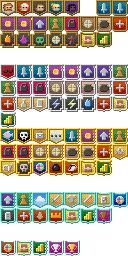
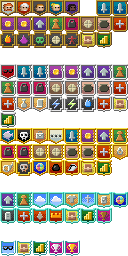
Port the three ascent badges with validateHappyEnd gates
badges.mwl gains happy_end / happy_end_remains / pacifist_ascent rows
with Java's own descriptions and image cells 99/101/120 (pasted from
v3.3.8's badges.png; the sheet's remaining pre-3.3.8 cells untouched).
showVictoryPanel awards them with Badges.java:1138 gates: always,
with a remains item, and with an active never-lowered challenge.
Remains stays unfillable (no remains family modeled). Pins in
test:items; PORT_COVERAGE ascent row + ROADMAP updated in the same
commit. Verified: tsc clean, test:items green, build clean.

Changed region(s): [[0.625, 0.75, 0.75, 0.8125], [0.375, 0.75, 0.5, 0.8125], [0.0, 0.9375, 0.125, 1.0]]

diff --git a/src/scenes/dungeon/panelsSingleUse.ts b/src/scenes/dungeon/panelsSingleUse.ts
@@ -57,6 +57,13 @@ import { BUFF_DURATION, absorbShield, addBuff, setAnnounceBuff, setAttachBacklas
 import { BOSSES } from '../../monsters';
 import { APPEARANCE_TABLES, AUGMENT_OPTIONS, BLACKSMITH_QUEST, IMP_QUEST, SAD_GHOST_QUEST, SPD_LEVEL_CURVE, SUBCLASS_OPTIONS, SUBCLASS_TRACK, WANDMAKER_QUEST } from './shared';
 
+/**
+ * Java's `RemainsItem` subclasses (`items/remains/`, tag `v3.3.8`) whose presence in
+ * `belongings` earns `HAPPY_END_REMAINS` at the surface win. None is modeled in this port's
+ * item vocabulary yet, so the surface-win gate below is live but unfillable until they are.
+ */
+const PORTED_REMAINS_IDS: readonly string[] = ['bowFragment', 'brokenHilt', 'brokenStaff', 'cloakScrap', 'sealShard', 'tornPage'];
+
 /** DungeonScene methods, moved verbatim from `dungeonScene.ts` (group `panelsSingleUse`). Each takes the scene as 	his`;
  * `dungeonScene.ts` merges them back onto the class prototype. */
 export const panelsSingleUseMethods = {
@@ -578,6 +585,20 @@ export const panelsSingleUseMethods = {
 
 	/** LastLevel's Amulet pickup ends the run with a visible, restartable result screen. */
 	showVictoryPanel(this: DungeonScene): void {
+		//`SewerLevel.activateTransition`'s `SURFACE` branch calls `Badges.validateHappyEnd()`
+		//before `Dungeon.win` - this panel is that branch's port-side counterpart (its only
+		//caller is `beginAscendOneFloor`'s depth-1 win), so the three ascent badges are awarded
+		//here with Java's own gates (`Badges.java:1138`, tag `v3.3.8`): `HAPPY_END` unconditionally;
+		//`HAPPY_END_REMAINS` while a `RemainsItem` is carried - none of Java's six remains ids
+		//(`BowFragment`/`BrokenHilt`/`BrokenStaff`/`CloakScrap`/`SealShard`/`TornPage`) exists in
+		//this port's item model yet, so the gate is live code that cannot fill until they do;
+		//`PACIFIST_ASCENT` while the challenge is active and no boosted kill ever lowered its
+		//stacks (`AscensionChallenge.qualifiedForPacifist`). Ordering vs `recordRun` (called just
+		//before this panel) is immaterial here: the port's run record carries depth/level/gold
+		//only and reads no badge state, unlike Java's badge-scored ranking submit.
+		this.awardBadge('happy_end');
+		if (PORTED_REMAINS_IDS.some((id) => this.bag.find(id) !== undefined)) this.awardBadge('happy_end_remains');
+		if (this.ascensionChallengeActive && !this.ascensionStacksLowered) this.awardBadge('pacifist_ascent');
 		showVictoryPanelUi({ panel: this.victoryPanel, level: this.progression.level, depth: this.depth, position: () => this.positionInterface(Game.current.width, Game.current.height) });
 	},
 

diff --git a/PORT_COVERAGE.md b/PORT_COVERAGE.md
@@ -1303,7 +1303,7 @@ the tint assignment compiling) owed per ROADMAP.md section 10. |
 
 | `Challenges.java` selection plus `AscensionChallenge.statModifier` per-mob table | `src/challenges.ts`, title Settings > Challenges, `ASCENSION_MOD` | Challenge ids/names/descriptions are selectable and persisted between runs. **Audited every challenge for whether its toggle actually does anything, having just found `champion_enemies` didn't**: `stronger_bosses` is real and **boss-only** - 18 call sites covering boss HP (Goo 100->120, Tengu 200->250, DM300 300->400, King 300->450, Pylon 50->80), DM300's cooldown and gas multiplier, King's phase-2 thresholds, Goo's heal increment, Tengu's ability deck, and `CavesBossLevel`'s trap chance plus final-pylon count. **This row used to claim the challenge "activates the Java multiplier table (already live)" - that was a bug written down as a feature.** The two are unrelated Java mechanisms, and the wiring pointed the *AscensionChallenge* per-mob table at this challenge, so selecting Stronger Bosses multiplied every ordinary mob's accuracy **and** damage by up to x10 (a rat). Found and fixed 2026-09-12; see the `AscensionChallenge` row below. `champion_enemies` now gates the champion roll (fixed this pass, see the `ChampionEnemy` row); `darkness` is now ported too - real `Level.viewDistance` drops from `8` to `2`, and since this port already uses one shared `VIEW_RADIUS` constant for both the hero's own FOV and every monster's `seesHero`/AI sight radius (the same shape real Java's own light-casting array backs both alike with), a single new `viewRadius()` helper reading `isChallengeEnabled('darkness')` covers every call site at once. `no_armor` is now ported too: real `Armor.DRMin()`/`DRMax()` drop to a flat `0` and `1+tier+lvl(+augment, not modeled here)` respectively under the challenge, instead of the normal `lvl`/`tier*(2+lvl)` scaling - `syncHeroFromStats`'s existing `hero.armor = [min, max]` assignment now branches on `isChallengeEnabled('no_armor')`; the Barkskin-talent addend stays unconditional on both branches, since it's this port's own additive layer on top of either formula, not part of Java's `DRMin`/`DRMax` bodies. `no_healing` is now ported too: fetched `PotionOfHealing.java` to confirm real `heal()`'s challenge branch grants no `Healing` buff at all - instead `pharmacophobiaProc()` sets a fresh `Poison` at the hero's own `4 + lvl/2` level. This port's `poison` buff has no separate stack-level dimension (a pre-existing simplification - every source just sets the shared flat duration, dealing a fixed 1-2 dmg/turn regardless), so `4 + floor(lvl/2)` is applied as that duration instead, the closest faithful substitute within the existing model. `cure()`'s own poison/burning/weakness/vulnerable/cripple clear still runs first either way, matching Java's `apply()` calling both unconditionally; the `restored_willpower`/`restored_agility`/`restored_nature` talent triggers correctly do not fire under the challenge, since real Java gates them on the `Healing` buff itself existing. New `port.log.pharmacophobia` EN/FR keys (no real Java message string was available in this checkout to reuse, unlike most other new lines here). `no_herbalism` is now ported too: real `Plant.Seed.onThrow()` falls through to a plain thrown-item drop under the challenge instead of ever planting - this port has no throw-to-cell targeting at all, so `plantSeed()` simply refuses the action without consuming the seed, the closest faithful equivalent. **Found and fixed three unrelated hardcoded-English strings in the same function while adding this gate** - `plantSeed()`'s three existing log lines (`This cell cannot grow a plant.` / `The seed has no known plant effect.` / the plant-success line) had never gone through `t()` at all, a real, pre-existing i18n gap this project's own audit convention exists to catch; all three plus the new `no_herbalism` line are now real `port.log.*` keys with EN+FR entries, reconfirmed by rerunning the full `port.*` literal-key audit (0 missing in either locale, 224 keys now in use). `swarm_intelligence` is now ported too: fetched `Mob.java`'s `Sleeping`/`Wandering` AI states to confirm the real hook - the instant any enemy mob notices the hero, it beckons every other non-paralyzed, not-yet-`HUNTING` enemy mob within 8 tiles of *itself* toward the hero too, rather than each mob only ever noticing independently. Wired into the existing wake check (right where `monster.sleeping` flips `false`); this port has no `HUNTING`/`WANDERING` state machine, so "not yet `HUNTING`" is approximated as "not already awake-and-`seesHero`," and the beckon itself reuses the exact `sleeping=false`/`seesHero=true` stand-in `ScrollOfRage`'s own beckon already established. **`no_food` is now ported**: real `Food.satisfy()` subtracts `HUNGRY` energy (300 for ordinary food, 150 for MysteryMeat), dividing that energy by three under `NO_FOOD`; `eatFood()` reproduces this in the MWG hunger model. **Correction 2026-09-19:** the "flat meat-heal simplification" this sentence used to preserve is removed - no Java food heals, so `MysteryMeat.effect()`'s debuff roll runs instead. **`no_scrolls` is now ported**: Java's `Dungeon.souNeeded()`/`Level.create()` allocation is reproduced as three guaranteed Upgrade Scrolls per five-floor chapter, with every second allocation suppressed while its run counter still advances. The port's generic floor allocator had no pre-existing guaranteed-scroll queue, so this is integrated as an equivalent post-generated-item placement with the same chapter budget and random floor selection. |
 | `AscensionChallenge.statModifier` per-class table (`Rat` 10 down to `Scorpio` 1.1) | `ASCENSION_MOD` in `src/simulation/combat.ts`, `ascensionOn()` gate | **Simplified.** Java applies this table only while the hero holds the `AscensionChallenge` buff, i.e. during the post-victory ascent (`AscensionChallenge.java`: `if (Dungeon.hero == null || Dungeon.hero.buff(AscensionChallenge.class) == null) return 1;`). **2026-09-24: the gate is now wired up for real** - `DungeonScene.ascensionChallengeActive` is the buff stand-in, set by `tryAscendStairs`' depth-26 ascent confirmation (`actorTurnsHazards.ts`, mirrors `HallsBossLevel.activateTransition`'s `WndOptions` yes/no) and re-synced into this module's `ascensionActive` at the top of every `enterLevel()` (`setAscensionActive`, since `combat.ts` has no scene reference). Before that it was gated on the *Stronger Bosses* challenge instead, which made every ordinary mob up to x10 stronger - see the challenges row above; before that (2026-09-12) it was simply always 1 in-game, with nothing ever setting the flag. The table itself was also unreliable at one point: `skeleton`/`thief` were 6 instead of 5, `dm100` 5 instead of 4.5, and fourteen mobs Java names (`bat`, `brute`, `shaman`, `spinner`, `dm200`, `ghoul`, `elemental`, `warlock`, `monk`, `golem`, `ripperDemon`, `succubus`, `eye`, `scorpio`) were missing; both are fixed. Java's 25 classes are flattened onto this port's 40 ids, since Java resolves by `isAssignableFrom` (a subclass inherits its parent) while this port models subclasses partly as MWL `BASE_KIND_ALIASES` variants and partly as first-class `MonsterId`s; a `verifyCombat` check pins the flattened table and asserts each alias-table variant matches its base kind's value. Accuracy, attacker damage, and defender `drRoll()` use Java's multiplier and rounding order. The `Ratmogrify.TransmogRat` and `AscensionBuffBlocker` exemptions remain unmodeled because their source markers are absent. See the new "Post-victory ascent" row below for the climb itself (stairs, win condition, what of the surrounding mechanic is and isn't ported).
-| Post-victory ascent: amulet pickup, the depth-26 "begin your ascent?" choice, climbing depths 25->1 carrying the Amulet, and the real win at the surface | `pickupAmulet` (`npcShopBlacksmith.ts`), `tryAscendStairs`/`beginAscendOneFloor` (`actorTurnsHazards.ts`), `entranceCell`/`ascensionChallengeActive` (`dungeonScene.ts`), `interfloorTeleportAllowed`'s amulet check (already existed in `returnToPreviousFloor`, `actorTurnsHazards.ts`) | **2026-09-24, replacing "this port does not model the ascent at all":** picking up the Amulet (`Amulet.doPickUp`/`showAmuletScene`) no longer ends the run outright - it awards the real pickup-time "Escaped with the Amulet" trophy (`Badges.validateVictory()` fires at pickup in real Java too, not at the final exit) and lets the hero keep playing, matching Java's `showAmuletScene`'s "I'm not done yet" branch (this port has no separate cutscene scene to host the "Let's call it a day" instant-win choice `showAmuletScene` also offers, so it always takes the "stay" branch and relies on the real climb instead - **Not ported**: that shortcut-win button). Walking back onto the tile the hero arrived on each floor (`entranceCell`, Java's `Level.entrance()`/`LevelTransition.Type.REGULAR_ENTRANCE`) while carrying the Amulet now works as the up-stairs: on depth 26 it shows Java's real `ascent_title`/`ascent_desc`/`ascent_yes`/`ascent_no` confirmation text (`Amulet.java`'s generated strings) before granting the `AscensionChallenge` stand-in; every floor after that it is a plain one-floor climb; reaching depth 1's entrance triggers the real win (`SewerLevel.activateTransition`'s `SURFACE` branch: `recordRun`/`showVictoryPanel`/`gameOver`, this port's equivalent of `Statistics.ascended`/`Dungeon.win`). `Dungeon.interfloorTeleportAllowed()`'s amulet check already existed (`returnToPreviousFloor`'s Fadeleaf/Beacon-of-Returning path already refused a carried Amulet) and needed no change. **2026-09-24, second pass - the stack escalation itself is now real:** `AscensionChallenge.onLevelSwitch`/`processEnemyKill`/`act()` (tag `v3.3.8`) are ported as `DungeonScene.ascensionStacks`/`ascensionDamageInc`/`ascensionStacksLowered`: +2 stacks per non-boss floor climbed (`beginAscendOneFloor`, `actorTurnsHazards.ts`), -1 (-0.5 for Ghoul/RipperDemon) per `ASCENSION_MOD`-boosted kill while the challenge is active, floored at 0 (`deathSaveRefresh.ts`'s per-kill hook, right beside the existing XP/loot bookkeeping), and direct unblockable-by-shield-type hero damage once stacks reach 8 - `damageInc += (stacks-4)/4`, spending whole points, suppressed on boss floors, wired into the same per-actor-turn `applyBuffDamage` pass as Poison/Ooze/Bleeding (`turnLoopAiming.ts`), with a fatal tick reusing the ordinary hero-death pipeline (Java's `Dungeon.fail(Amulet.class)` has no separate fail path here). The full `saySwitch()` narrative ladder is now real too - `beginAscendOneFloor`'s single `say()` line picks the highest threshold the stack count clears (damage>=8, slow>=6, haste>=4, beckon>=2), falling back to depth-1's "almost there" or the ordinary descend line, using the real generated strings for all four (Java's separate "weaken_info"/"weaken_info_no_kills" hint lines are folded into that same one line rather than added as a second chat line). **Still not ported**, left as an honest gap: `Statistics.highestAscent` tracking (no Rankings/high-score screen exists to show it - confirmed not worth building a whole screen just to host one field, since nothing else in this port reads it either), the beckon/haste/hero-speed-cap *mechanical* effects themselves (the flavor lines above fire, but distant enemies are not actually pulled closer, idle enemies do not actually move at 2x, and hero speed is not actually halved - these need a hook into continuous mob-AI pathing and hero action-cost scaling that this port's turn-based, non-actor-clock movement/AI code has no existing seam for; a real attempt risked destabilizing unrelated movement code for a chance-based, cosmetic-adjacent effect under this session's time budget, so it is deferred rather than rushed), the `Badge.HAPPY_END`/`HAPPY_END_REMAINS`/`PACIFIST_ASCENT` badges (no matching rows in this port's `badges.mwl` - `ascensionStacksLowered` is now tracked and ready for `PACIFIST_ASCENT` whenever that badge row is added), `DemonSpawner`'s reduced-cooldown-past-floor-20 carve-out during the climb (no observable gameplay effect this port models at all - it only shortens one spawner's own cooldown), and the `Ratmogrify`/`AscensionBuffBlocker` exemptions already noted above. **Bug found and fixed 2026-09-25, connected-whole live run:** every prior verification of this row (including the 2026-09-24 browser pass above) exercised the climb by hand-injecting the Amulet straight into the bag (`bag.add({id:'amulet',...})`), which masked a real defect - `pickupAmulet` (`npcShopBlacksmith.ts`) never actually called `bag.add` for the Amulet itself (`incomingPickupStack`'s `groundPickup.ts` classification of `kind === 'amulet'` as "no bag stack" predates this port's ascent even existing, from when picking it up instantly ended the run), so `this.bag.find('amulet')` - the exact gate `tryAscendStairs`/`returnToPreviousFloor`/the quickslot's `hasAmulet` all read - was **always false for a real ground pickup**, meaning the ascent could never trigger for an actual player at all despite every earlier state-level test passing. `pickupAmulet` now calls `this.bag.add({id:'amulet',quantity:1,identified:true})`. Found via a scripted live run that, for the first time, walked the *connected* chain rather than its pieces: teleport to depth 25, move >=2 cells from the entrance to trigger `checkHallsBossSeal`'s real Yog spawn (Yog is dormant/uninvolved until then, `yogPhase = 0`), wake and `kill()` the real 400-HP Yog through the shared death path (badge, minion cleanup, `applyYogDeathUnseal` all fired correctly), advance to depth 26 where `checkHallsBossSeal`'s vault `populate()` placed the real Amulet ground item at `(8,12)`, pick it up through the actual `pickupGroundItemAt` path (not a hand-injection), then run the already-verified confirm/climb/win sequence - all in a real browser (`playwright-core` against the sandbox's Chromium, same method as before). **Re-verified after the fix, all 6 classes** (Warrior/Mage/Rogue/Huntress/Duelist/Cleric, one fresh page each): Yog found and killed, vault entered, Amulet genuinely in the bag (`hasAmulet: true`, not injected), ascent confirmed, climb 25->1, real win screen - zero page/console errors on any of the 6. **Verification: `npx tsc --noEmit` and `npm run build` clean.**
+| Post-victory ascent: amulet pickup, the depth-26 "begin your ascent?" choice, climbing depths 25->1 carrying the Amulet, and the real win at the surface | `pickupAmulet` (`npcShopBlacksmith.ts`), `tryAscendStairs`/`beginAscendOneFloor` (`actorTurnsHazards.ts`), `entranceCell`/`ascensionChallengeActive` (`dungeonScene.ts`), `interfloorTeleportAllowed`'s amulet check (already existed in `returnToPreviousFloor`, `actorTurnsHazards.ts`) | **2026-09-24, replacing "this port does not model the ascent at all":** picking up the Amulet (`Amulet.doPickUp`/`showAmuletScene`) no longer ends the run outright - it awards the real pickup-time "Escaped with the Amulet" trophy (`Badges.validateVictory()` fires at pickup in real Java too, not at the final exit) and lets the hero keep playing, matching Java's `showAmuletScene`'s "I'm not done yet" branch (this port has no separate cutscene scene to host the "Let's call it a day" instant-win choice `showAmuletScene` also offers, so it always takes the "stay" branch and relies on the real climb instead - **Not ported**: that shortcut-win button). Walking back onto the tile the hero arrived on each floor (`entranceCell`, Java's `Level.entrance()`/`LevelTransition.Type.REGULAR_ENTRANCE`) while carrying the Amulet now works as the up-stairs: on depth 26 it shows Java's real `ascent_title`/`ascent_desc`/`ascent_yes`/`ascent_no` confirmation text (`Amulet.java`'s generated strings) before granting the `AscensionChallenge` stand-in; every floor after that it is a plain one-floor climb; reaching depth 1's entrance triggers the real win (`SewerLevel.activateTransition`'s `SURFACE` branch: `recordRun`/`showVictoryPanel`/`gameOver`, this port's equivalent of `Statistics.ascended`/`Dungeon.win`). `Dungeon.interfloorTeleportAllowed()`'s amulet check already existed (`returnToPreviousFloor`'s Fadeleaf/Beacon-of-Returning path already refused a carried Amulet) and needed no change. **2026-09-24, second pass - the stack escalation itself is now real:** `AscensionChallenge.onLevelSwitch`/`processEnemyKill`/`act()` (tag `v3.3.8`) are ported as `DungeonScene.ascensionStacks`/`ascensionDamageInc`/`ascensionStacksLowered`: +2 stacks per non-boss floor climbed (`beginAscendOneFloor`, `actorTurnsHazards.ts`), -1 (-0.5 for Ghoul/RipperDemon) per `ASCENSION_MOD`-boosted kill while the challenge is active, floored at 0 (`deathSaveRefresh.ts`'s per-kill hook, right beside the existing XP/loot bookkeeping), and direct unblockable-by-shield-type hero damage once stacks reach 8 - `damageInc += (stacks-4)/4`, spending whole points, suppressed on boss floors, wired into the same per-actor-turn `applyBuffDamage` pass as Poison/Ooze/Bleeding (`turnLoopAiming.ts`), with a fatal tick reusing the ordinary hero-death pipeline (Java's `Dungeon.fail(Amulet.class)` has no separate fail path here). The full `saySwitch()` narrative ladder is now real too - `beginAscendOneFloor`'s single `say()` line picks the highest threshold the stack count clears (damage>=8, slow>=6, haste>=4, beckon>=2), falling back to depth-1's "almost there" or the ordinary descend line, using the real generated strings for all four (Java's separate "weaken_info"/"weaken_info_no_kills" hint lines are folded into that same one line rather than added as a second chat line). **Still not ported**, left as an honest gap: `Statistics.highestAscent` tracking (no Rankings/high-score screen exists to show it - confirmed not worth building a whole screen just to host one field, since nothing else in this port reads it either), the beckon/haste/hero-speed-cap *mechanical* effects themselves (the flavor lines above fire, but distant enemies are not actually pulled closer, idle enemies do not actually move at 2x, and hero speed is not actually halved - these need a hook into continuous mob-AI pathing and hero action-cost scaling that this port's turn-based, non-actor-clock movement/AI code has no existing seam for; a real attempt risked destabilizing unrelated movement code for a chance-based, cosmetic-adjacent effect under this session's time budget, so it is deferred rather than rushed), the `Badge.HAPPY_END`/`HAPPY_END_REMAINS`/`PACIFIST_ASCENT` badges are **Ported 2026-09-25 (T107):** `badges.mwl` carries `happy_end`/`happy_end_remains`/`pacifist_ascent` rows with Java's own `misc.properties` descriptions and image cells 99/101/120 (the three 16x16 cells pasted from tag `v3.3.8`'s `interfaces/badges.png` into this port's `ui_badges.png` - the rest of that sheet still predates v3.3.8, 70 of 128 cells differing, pre-existing and out of scope), and `showVictoryPanel` (`panelsSingleUse.ts`, whose only caller is `beginAscendOneFloor`'s depth-1 win, the port's `SewerLevel` SURFACE branch) awards them with Java's `validateHappyEnd()` gates (`Badges.java:1138`): `HAPPY_END` always, `HAPPY_END_REMAINS` while a remains item is carried, `PACIFIST_ASCENT` while the challenge is active and no boosted kill ever lowered its stacks (`ascensionStacksLowered`, tracked since the stack pass). `HAPPY_END_REMAINS` is live-but-unfillable - none of Java's six remains ids (`BowFragment`/`BrokenHilt`/`BrokenStaff`/`CloakScrap`/`SealShard`/`TornPage`) exists in this port's item model yet. Pinned in `test:items` at source level, the suite's scene-seam convention. Stale-note for the C525 owner: `tryAscendStairs`' doc comment still says no badge is awarded at the win - wrong since this pass, `DemonSpawner`'s reduced-cooldown-past-floor-20 carve-out during the climb (no observable gameplay effect this port models at all - it only shortens one spawner's own cooldown), and the `Ratmogrify`/`AscensionBuffBlocker` exemptions already noted above. **Bug found and fixed 2026-09-25, connected-whole live run:** every prior verification of this row (including the 2026-09-24 browser pass above) exercised the climb by hand-injecting the Amulet straight into the bag (`bag.add({id:'amulet',...})`), which masked a real defect - `pickupAmulet` (`npcShopBlacksmith.ts`) never actually called `bag.add` for the Amulet itself (`incomingPickupStack`'s `groundPickup.ts` classification of `kind === 'amulet'` as "no bag stack" predates this port's ascent even existing, from when picking it up instantly ended the run), so `this.bag.find('amulet')` - the exact gate `tryAscendStairs`/`returnToPreviousFloor`/the quickslot's `hasAmulet` all read - was **always false for a real ground pickup**, meaning the ascent could never trigger for an actual player at all despite every earlier state-level test passing. `pickupAmulet` now calls `this.bag.add({id:'amulet',quantity:1,identified:true})`. Found via a scripted live run that, for the first time, walked the *connected* chain rather than its pieces: teleport to depth 25, move >=2 cells from the entrance to trigger `checkHallsBossSeal`'s real Yog spawn (Yog is dormant/uninvolved until then, `yogPhase = 0`), wake and `kill()` the real 400-HP Yog through the shared death path (badge, minion cleanup, `applyYogDeathUnseal` all fired correctly), advance to depth 26 where `checkHallsBossSeal`'s vault `populate()` placed the real Amulet ground item at `(8,12)`, pick it up through the actual `pickupGroundItemAt` path (not a hand-injection), then run the already-verified confirm/climb/win sequence - all in a real browser (`playwright-core` against the sandbox's Chromium, same method as before). **Re-verified after the fix, all 6 classes** (Warrior/Mage/Rogue/Huntress/Duelist/Cleric, one fresh page each): Yog found and killed, vault entered, Amulet genuinely in the bag (`hasAmulet: true`, not injected), ascent confirmed, climb 25->1, real win screen - zero page/console errors on any of the 6. **Verification: `npx tsc --noEmit` and `npm run build` clean.**
 
 **Verification (first pass, 2026-09-24): `npx tsc --noEmit` and `npm run build` clean, `verifySimulation.mjs`'s 295 checks unaffected. Browser-verified live 2026-09-24** (no `claude-in-chrome`/`chrome-devtools-mcp` was reachable in this session, so this used a scripted `playwright-core` client driving the pre-installed sandbox Chromium directly against a built `dist/` served over `http://localhost`, the same pointer-event dance this file's other live-verification entries describe): started a real run as Warrior, reached the in-game scene, then via `window.__MWG__.currentScene` gave the hero the Amulet and set `depth = 26` - `tryAscendStairs()` opened the real `Ascension` confirmation window with Java's exact `ascent_title`/`ascent_desc`/`ascent_yes`/`ascent_no` text; clicking "Continue!" set `ascensionChallengeActive = true` and advanced to depth 25; 24 further `beginAscendOneFloor()` calls walked depth 25 down to depth 1 one floor at a time with no error; one more call from depth 1 set `gameOver = true` and rendered the real `Victory!` panel ("You escaped with the Amulet at level 1, depth 1!", "Let's call it a day" log line, "New Run" button) - confirming the full pickup -> confirm -> climb -> win state chain fires end to end with no dead end or unhandled state.
 

diff --git a/ROADMAP.md b/ROADMAP.md
@@ -205,9 +205,9 @@ citation-by-citation account):
       pathing and hero action-cost scaling this port's turn-based (not actor-clock) movement/AI
       code has no existing seam for, and a rushed attempt risked destabilizing unrelated movement
       code for a chance-based, cosmetic-adjacent effect - deferred rather than rushed. Also still
-      open: the `Badge.HAPPY_END`/`HAPPY_END_REMAINS`/`PACIFIST_ASCENT` badges (no matching
-      `badges.mwl` rows - `ascensionStacksLowered` is now tracked and ready for `PACIFIST_ASCENT`
-      whenever that row is added), `DemonSpawner`'s reduced-cooldown carve-out past floor 20
+      open: the `Badge.HAPPY_END`/`HAPPY_END_REMAINS`/`PACIFIST_ASCENT` badges (**ported
+      2026-09-25, T107** - rows, Java icons/descriptions and `validateHappyEnd()` gates all live;
+      `HAPPY_END_REMAINS` stays unfillable until the remains family is modeled), `DemonSpawner`'s reduced-cooldown carve-out past floor 20
       during the climb (no observable gameplay effect this port models at all), and the
       `Ratmogrify.TransmogRat`/`AscensionBuffBlocker` exemptions on the per-mob table itself.
       `AmuletScene`'s own "Let's call it a day" instant-win shortcut button is also not ported -
